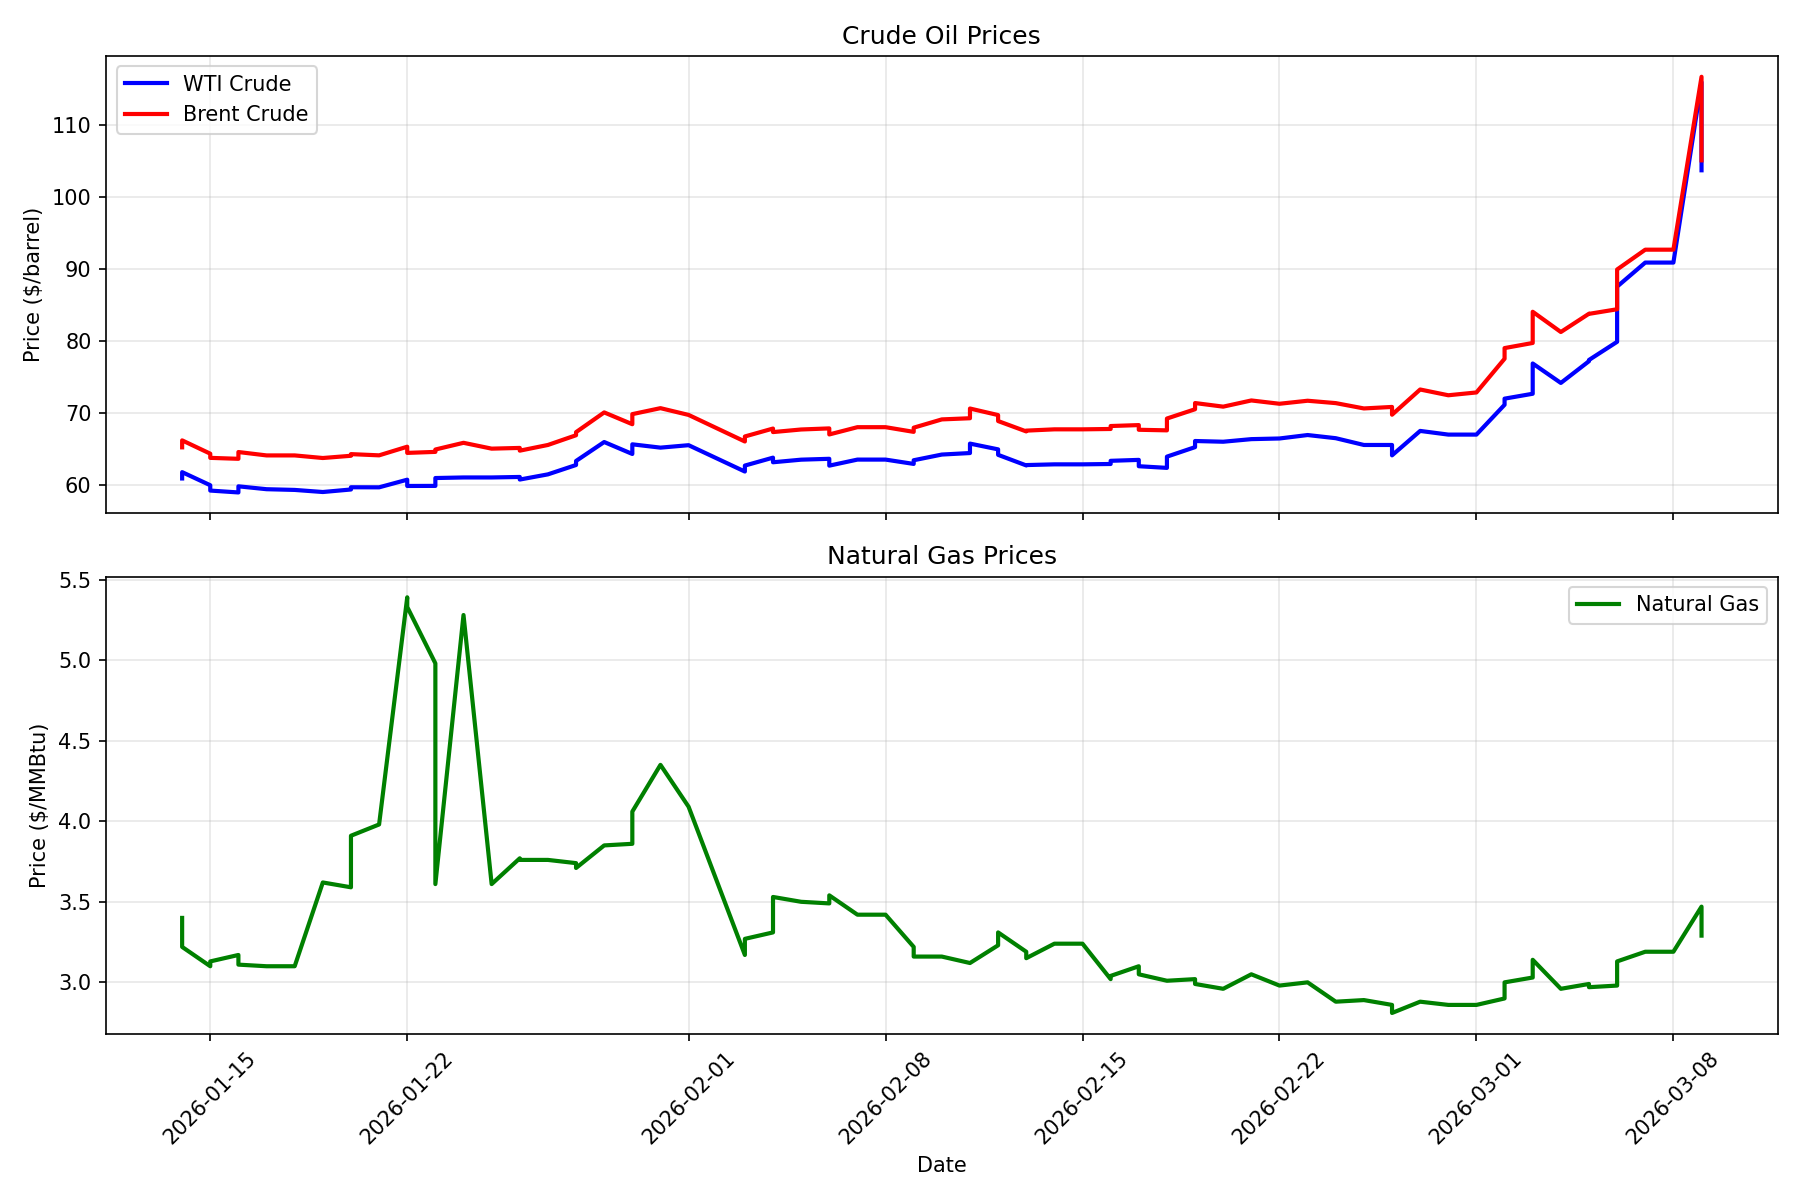
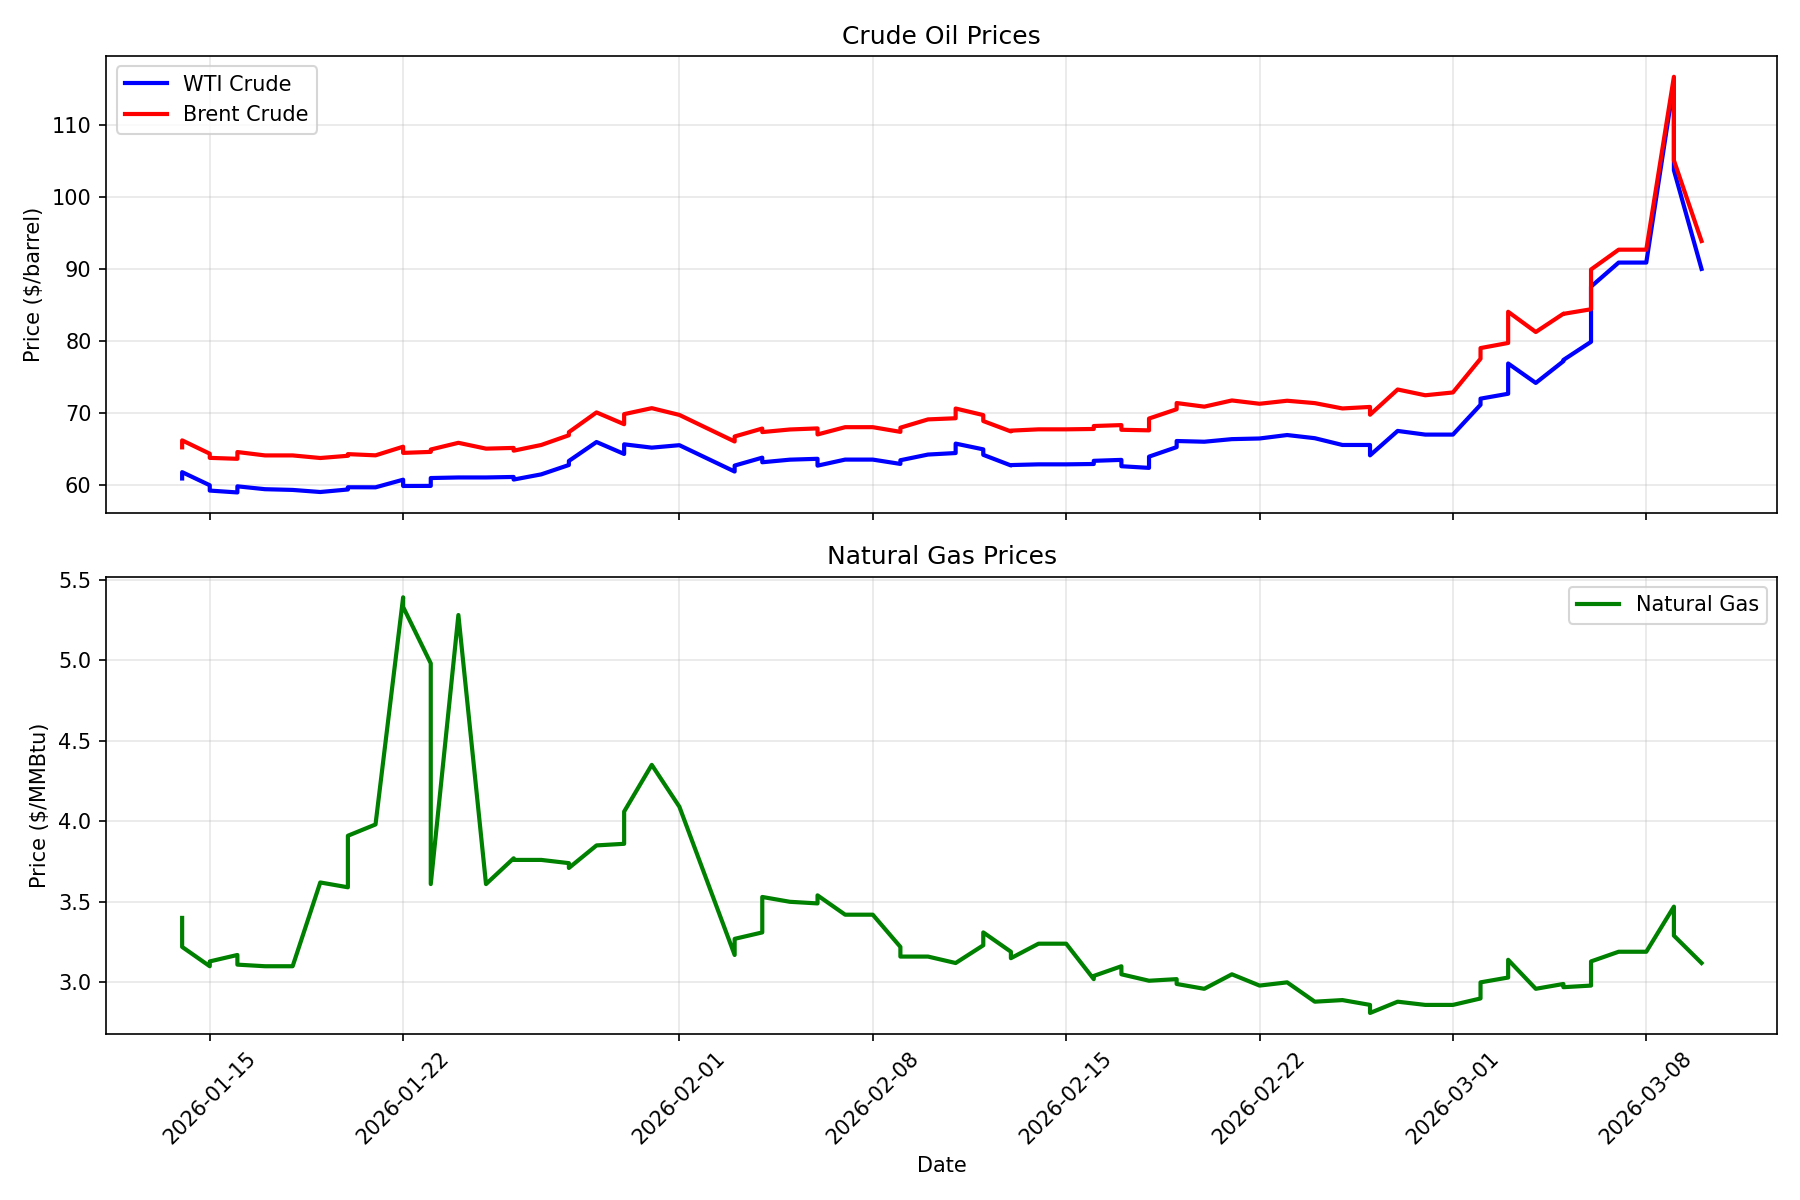
Daily price update: 2026-03-10

diff --git a/README.md b/README.md
@@ -2,29 +2,29 @@
 
 Automated daily tracking of chemical commodity prices and chemical company stocks.
 
-## Latest Prices (Updated: 2026-03-09)
+## Latest Prices (Updated: 2026-03-10)
 
 ### Energy Commodities
 
 | Commodity | Price | Change (24h) | Unit |
 |-----------|-------|--------------|------|
-| WTI Crude Oil | $103.71 | +0.00 (+0.00%) | $/barrel |
-| Brent Crude Oil | $105.09 | +0.00 (+0.00%) | $/barrel |
-| Natural Gas | $3.29 | +0.00 (+0.00%) | $/MMBtu |
-| Heating Oil | $3.25 | +0.00 (+0.00%) | $/gallon |
+| WTI Crude Oil | $90.02 | +0.00 (+0.00%) | $/barrel |
+| Brent Crude Oil | $93.89 | +0.00 (+0.00%) | $/barrel |
+| Natural Gas | $3.12 | +0.00 (+0.00%) | $/MMBtu |
+| Heating Oil | $3.24 | +0.00 (+0.00%) | $/gallon |
 
 ### Chemical Company Stocks
 
 | Company | Ticker | Price | Change (24h) |
 |---------|--------|-------|--------------|
-| Dow Inc. | DOW | $34.70 | +1.42 (+4.27%) |
-| LyondellBasell | LYB | $67.47 | +0.36 (+0.54%) |
-| DuPont | DD | $43.16 | -2.10 (-4.64%) |
-| Air Products | APD | $272.90 | +0.72 (+0.26%) |
-| Linde | LIN | $480.80 | -3.94 (-0.81%) |
-| Eastman Chemical | EMN | $67.11 | -3.22 (-4.58%) |
-| Celanese | CE | $47.97 | -1.35 (-2.73%) |
-| Huntsman | HUN | $11.25 | -0.19 (-1.66%) |
+| Dow Inc. | DOW | $34.31 | +1.03 (+3.09%) |
+| LyondellBasell | LYB | $66.82 | -0.29 (-0.43%) |
+| DuPont | DD | $45.24 | -0.02 (-0.04%) |
+| Air Products | APD | $274.40 | +2.22 (+0.82%) |
+| Linde | LIN | $483.62 | -1.12 (-0.23%) |
+| Eastman Chemical | EMN | $69.60 | -0.73 (-1.04%) |
+| Celanese | CE | $51.45 | +2.13 (+4.32%) |
+| Huntsman | HUN | $12.11 | +0.67 (+5.86%) |
 
 ## Data Sources
 

diff --git a/logs/update_log.md b/logs/update_log.md
@@ -102,3 +102,4 @@ Daily updates to the chemical engineering data repository.
 - **2026-03-08 14:04:07**: Updated 4 energy prices, 8 stocks, 0 FRED series
 - **2026-03-09 00:34:30**: Updated 4 energy prices, 8 stocks, 0 FRED series
 - **2026-03-09 14:17:41**: Updated 4 energy prices, 8 stocks, 0 FRED series
+- **2026-03-10 00:29:37**: Updated 4 energy prices, 8 stocks, 0 FRED series
